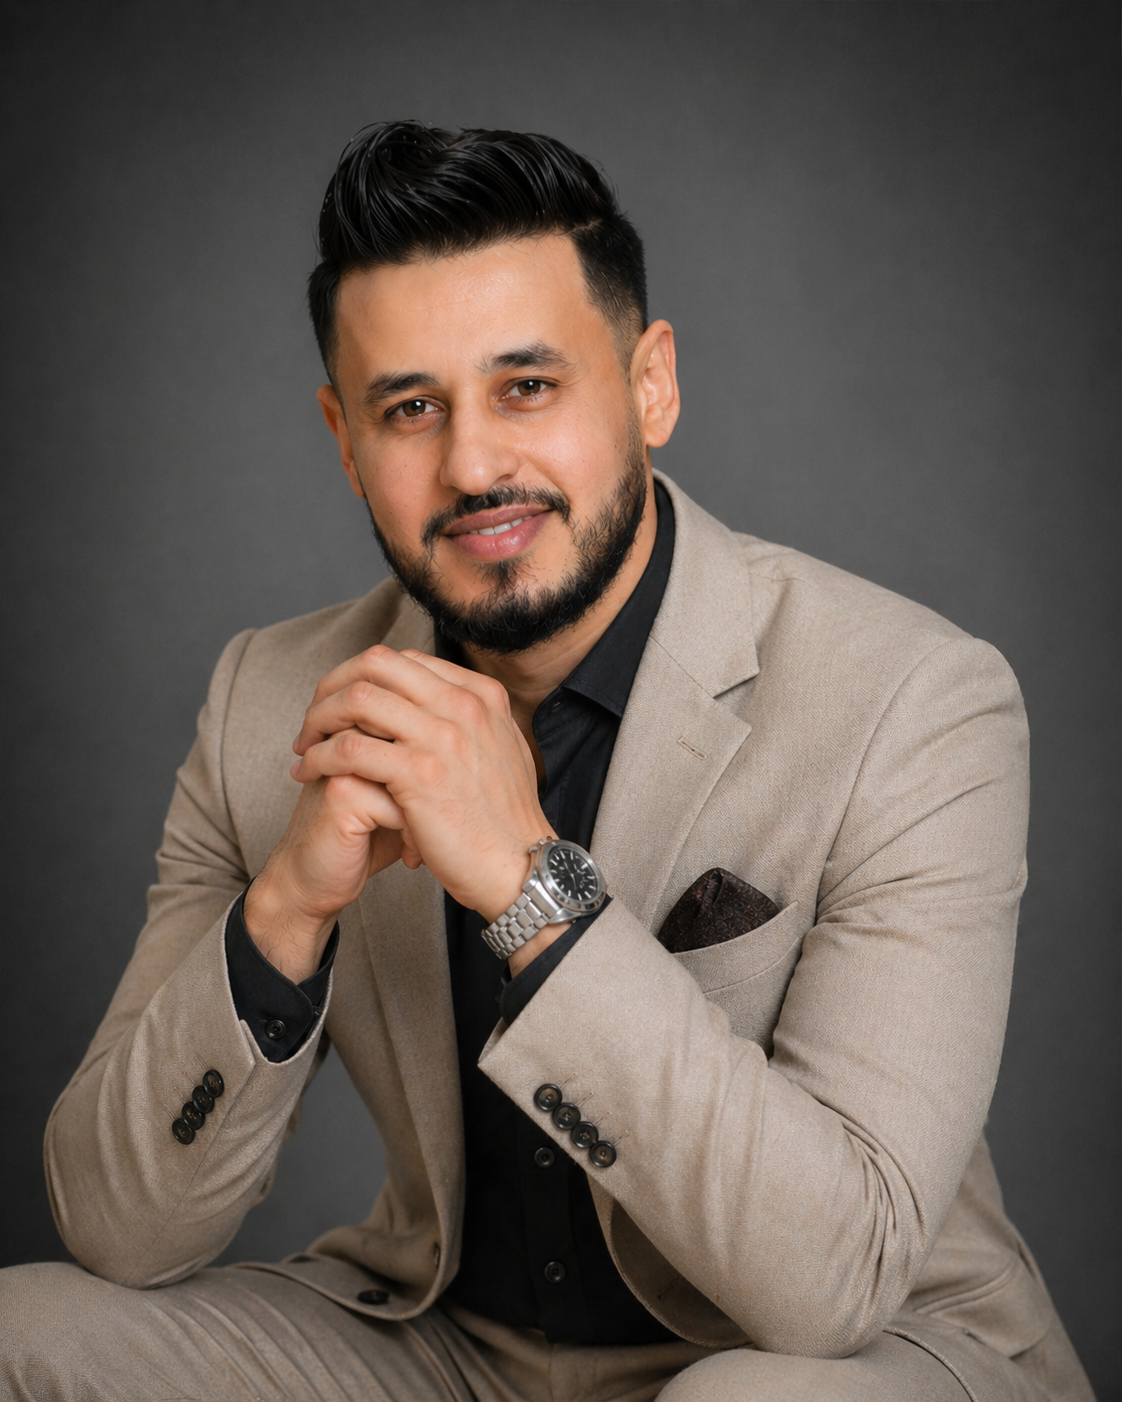
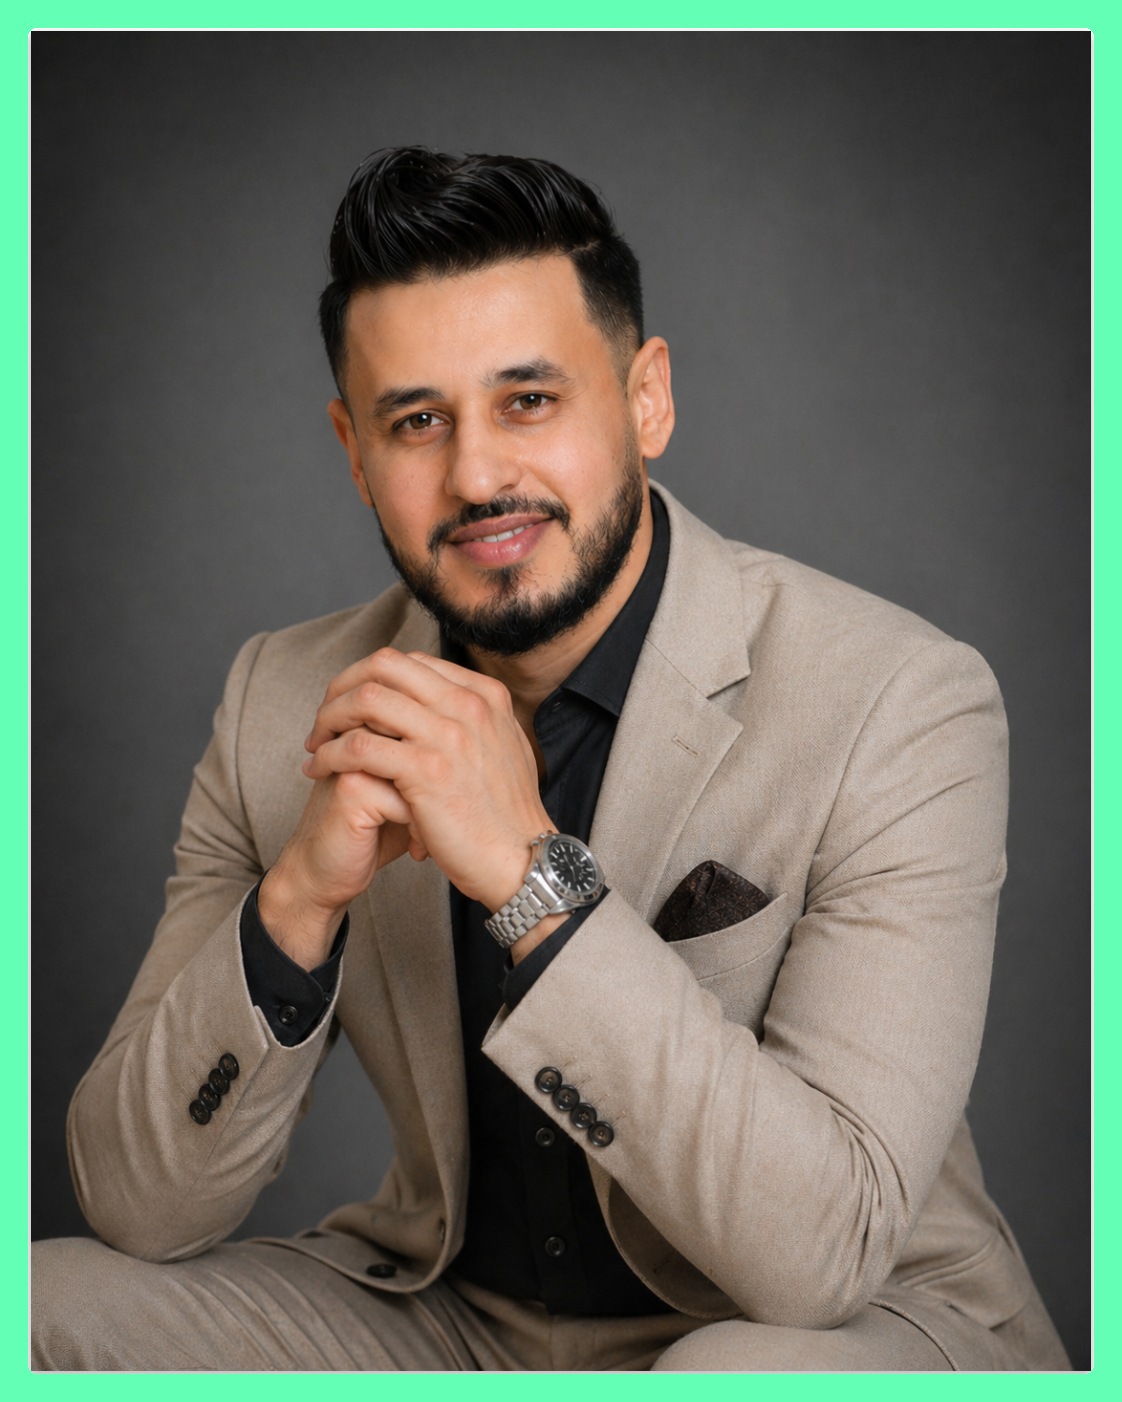
minor: small code updates and fixes

diff --git a/src/components/Footer.jsx b/src/components/Footer.jsx
@@ -4,7 +4,7 @@ export default function Footer() {
   return (
     <footer className="footer">
       <div className="container">
-        <p className="m-0 text-center">© 2023 copyright all right reserved</p>
+        <p className="m-0 text-center">© 2026 copyright all right reserved</p>
       </div>
     </footer>
   );

diff --git a/src/scss/scss/_button.scss b/src/scss/scss/_button.scss
@@ -75,6 +75,9 @@
     &.facebook {
       background: #1877f2;
     }
+    &.instagram {
+      background: radial-gradient(circle at 30% 107%, #fdf497 0%, #fdf497 5%, #fd5949 45%, #d6249f 60%, #285aeb 90%);
+    }
     &.linkedin {
       background: #1275b1;
     }

diff --git a/src/components/Testimonial.jsx b/src/components/Testimonial.jsx
@@ -10,7 +10,7 @@ export default function Testimonial({ data }) {
     infinite: true,
     autoplay: true,
     autoplaySpeed: 0,
-    speed: 9000,
+    speed: 12000,
     cssEase: 'linear',
     pauseOnHover: false,
     slidesToShow: 1,
